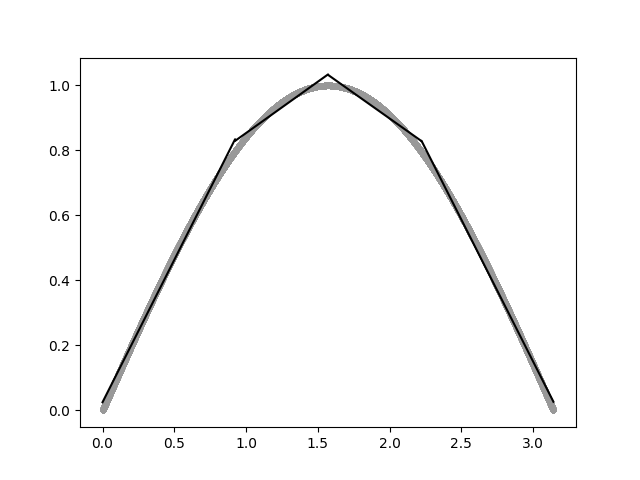
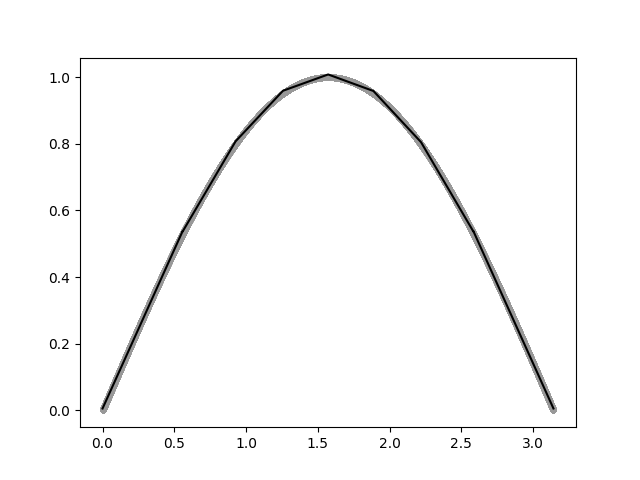
moved to bottleneck

diff --git a/segmentreg/base.py b/segmentreg/base.py
@@ -1,6 +1,23 @@
 import numpy as np
+import bottleneck as bn
 
 FLOAT_PRECISION = 1e-14
+
+
+def move_var(x):
+    return bn.move_var(x, len(x), 1)
+
+
+def join_var(x, y):
+    var_x, var_y = move_var(x), move_var(y)
+    k = np.sqrt(var_y[-1] / var_x[-1])
+    cov = (move_var(y + k * x) - var_y - k ** 2 * var_x) / (2 * k)
+
+    i = np.where(var_x < FLOAT_PRECISION)[0].max() + 1
+    v = var_y
+    if i < len(x):
+        v[i:] -= cov[i:] * cov[i:] / var_x[i:]
+    return v
 
 
 class SegmentedRegression:
@@ -13,20 +30,22 @@ class SegmentedRegression:
 
     eps : float, optional
         threshold when stop further split search
+
+    Attributes
+    ----------
+    segments_ : list of tuples,
+        segment info: x_start, slope, intercept
+
+    Examples
+    --------
+    see examples folder
+
     """
 
     def __init__(self, min_segment_len=15, eps=None):
         # origin data
         self.x = None
         self.y = None
-
-        # cumulative sum data
-        self._n = None
-        self._x = None
-        self._y = None
-        self._xy = None
-        self._x2 = None
-        self._y2 = None
 
         # result
         self.segments_ = None
@@ -52,13 +71,6 @@ class SegmentedRegression:
         self.x = x
         self.y = y
 
-        self._n = np.arange(1, x.shape[0] + 1)
-        self._x = np.cumsum(x)
-        self._y = np.cumsum(y)
-        self._xy = np.cumsum(x * y)
-        self._x2 = np.cumsum(x * x)
-        self._y2 = np.cumsum(y * y)
-
         if self.eps is None:
             self.eps = 3 * self._estimate_var(x, y)
 
@@ -81,7 +93,6 @@ class SegmentedRegression:
                 return self._find_segments(n1, n) + self._find_segments(n, n2)
 
     def _get_segment_info(self, n1, n2):
-        # because of precision issue we can not use cumsum values to estimate slope and intercept
         x, y = self.x[n1: n2], self.y[n1: n2]
         cov = np.cov(x, y)
         if cov[0, 0] < FLOAT_PRECISION:
@@ -93,49 +104,12 @@ class SegmentedRegression:
         return x[0], k, b
 
     def _get_variance_slice(self, n1, n2):
-        # FIXME divide by (n-1) not by n
-        x, y, xy, x2, y2, n = self._x, self._y, self._xy, self._x2, self._y2, self._n
+        x, y = self.x[n1:n2], self.y[n1:n2]
+        v = join_var(x, y)
+        v_r = join_var(x[::-1], y[::-1])
 
-        n_ = n[n1: n2] - (n[n1] - 1)
-        x_m = (x[n1: n2] - x[n1]) / n_
-        y_m = (y[n1: n2] - y[n1]) / n_
-        xy_m = (xy[n1: n2] - xy[n1]) / n_
-        cov = xy_m - x_m * y_m
-
-        x2_m = (x2[n1: n2] - x2[n1]) / n_
-        var_x = x2_m - x_m * x_m
-        var_x[var_x < FLOAT_PRECISION] = np.nan  # to avoid division by zero
-
-        y2_m = (y2[n1: n2] - y2[n1]) / n_
-        var_y = y2_m - y_m * y_m
-
-        v = var_y - cov * cov / var_x
-        v[:self.min_seg] = np.nan  # one point estimation is rubbish
-
-        n2 -= 1
-        n_ = n[n2] - n[n1: n2]
-        x_m = (x[n2] - x[n1: n2]) / n_
-        y_m = (y[n2] - y[n1: n2]) / n_
-        xy_m = (xy[n2] - xy[n1: n2]) / n_
-        cov = xy_m - x_m * y_m
-
-        x2_m = (x2[n2] - x2[n1: n2]) / n_
-        var_x = x2_m - x_m * x_m
-        var_x[var_x < FLOAT_PRECISION] = np.nan  # to avoid division by zero
-
-        y2_m = (y2[n2] - y2[n1: n2]) / n_
-        var_y = y2_m - y_m * y_m
-
-        v_r = np.zeros_like(v)
-        v_r[1:] = var_y - cov * cov / var_x
-        v_r[-self.min_seg:] = np.nan
-
-        try:
-            n_relative = np.nanargmin(v + v_r)
-            return n1 + n_relative, v[n_relative], v_r[n_relative]
-        except:
-            # if all values is nan
-            return n1, 0, 0 
+        n_relative = np.argmin((v + v_r[::-1])[self.min_seg: -self.min_seg]) + self.min_seg
+        return n1 + n_relative, v[n_relative], v_r[-n_relative]
 
     @staticmethod
     def _estimate_var(x, y):

diff --git a/examples/simle_saw.py b/examples/simle_saw.py
@@ -4,12 +4,13 @@ from segmentreg import SegmentedRegression
 import matplotlib.pyplot as plt
 
 if __name__ == "__main__":
-    x = np.linspace(0., 500., 100000)
-    y = 100. - 1.*x
-    y[30000:] += 150
-    y[60000:] += 150
-    y[90000:] += 150
-    y += np.random.normal(scale=10, size=y.shape)
+    # make x and y have different scale for testing accuracy
+    x = np.linspace(0., 5e8, 100000)
+    y = 1. - 1e-8*x
+    y[30000:] += 1.5
+    y[60000:] += 1.5
+    y[90000:] += 1.5
+    y += np.random.normal(scale=0.1, size=y.shape)
 
     t = time.time()
     m = SegmentedRegression()

diff --git a/examples/sin.py b/examples/sin.py
@@ -8,7 +8,7 @@ if __name__ == "__main__":
     y = np.sin(x)
 
     t = time.time()
-    m = SegmentedRegression(eps=1e-3)
+    m = SegmentedRegression(eps=1e-4)
     m.fit(x, y)
     t = time.time() - t
     print('Segments: {}, time: {:.1f}ms'.format(len(m.segments_), t * 1000))

diff --git a/README.md b/README.md
@@ -1,17 +1,17 @@
 # segmented-regression
 Discontinuous segmented linear regression
 
-Model finds split points by greedy minimization of total variance. Linear trend is eliminated before variance is calculated.
-Model is fast and require only `numpy`.
+Model finds split points by greedy minimization of total variance. Linear trend is eliminated while variance is calculated.
+Model require `numpy` and `bottleneck` for fast computations.
 
 # Examples
 ```python
-x = np.linspace(0., 500., 100000)
-y = 100. - 1.*x
-y[30000:] += 150
-y[60000:] += 150
-y[90000:] += 150
-y += np.random.normal(scale=10, size=y.shape)
+x = np.linspace(0., 5e8, 100000)
+y = 1. - 1e-8*x
+y[30000:] += 1.5
+y[60000:] += 1.5
+y[90000:] += 1.5
+y += np.random.normal(scale=0.1, size=y.shape)
 
 m = SegmentedRegression()
 m.fit(x, y)
@@ -25,13 +25,10 @@ plt.plot(x, y_, color='k')
 x = np.linspace(0., np.pi, 100000)
 y = np.sin(x)
 
-m = SegmentedRegression(eps=1e-3)
+m = SegmentedRegression(eps=1e-4)
 m.fit(x, y)
 y_ = m.predict(x)
 plt.plot(x, y, '.', alpha=.5, color='#999999')
 plt.plot(x, y_, color='k')
 ```
 ![alt text](/img/sin.png "Sin example")
-
-# Warning
-There are precision issues while variance and covariance being computed. Be careful of using low values of threshold `eps`.
